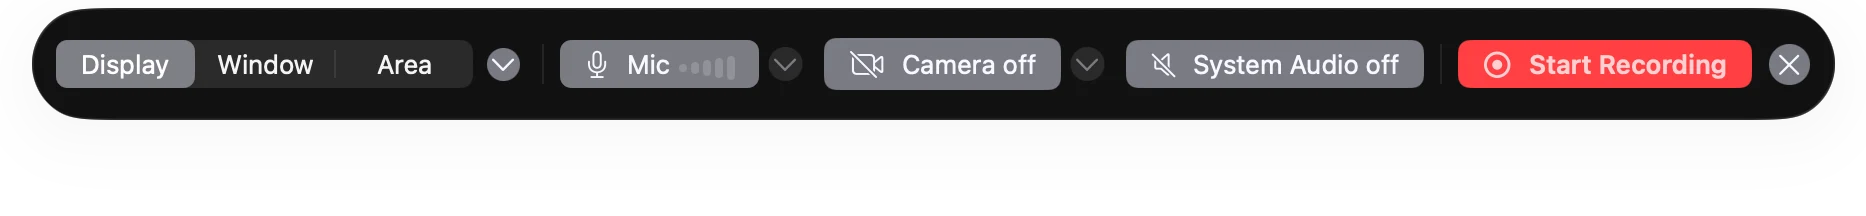
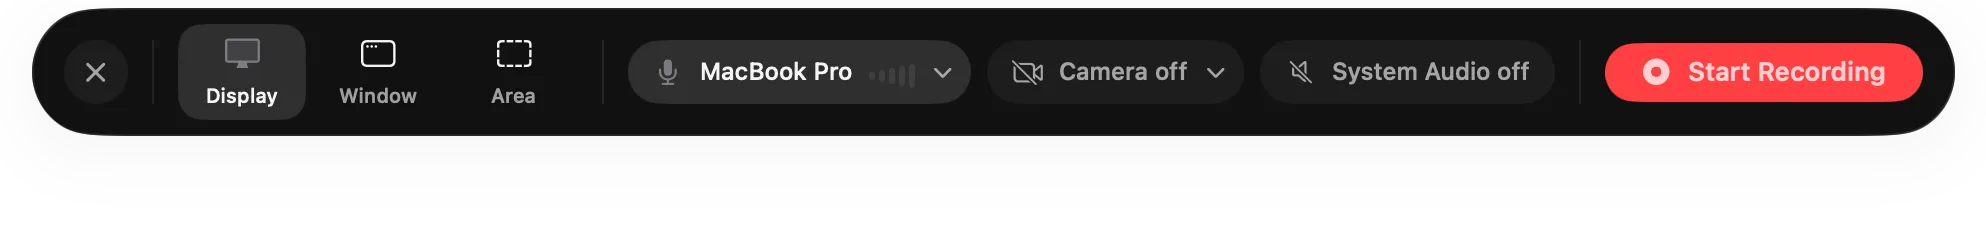
Show the new Record Panel on the landing page

Changed region(s): [[0.0311, 0.0833, 0.9946, 0.6111], [0.0311, 0.0278, 0.9636, 0.0556], [0.0, 0.4444, 0.0311, 0.5278]]

diff --git a/site/index.html b/site/index.html
@@ -138,7 +138,7 @@
             <li class="step" data-step="record">
               <h3>Record</h3>
               <p>Pick a display, a window, or an area. Turn the mic, camera, and system audio on or off, then start from the menu bar or a global shortcut. Your face sits in a round bubble you can drag anywhere while you record.</p>
-              <img class="step-shot" src="assets/shots/source-picker-dark.webp" loading="lazy" width="1908" height="494" alt="The record bar with Display, Window, and Area, mic, camera, and system audio toggles, and the display picker open.">
+              <img class="step-shot" src="assets/shots/source-picker-dark.webp" loading="lazy" width="1986" height="528" alt="The record bar with Display, Window, and Area tiles, mic, camera, and system audio chips, and the display picker open.">
             </li>
             <li class="step" data-step="zoom">
               <h3>Auto-zoom</h3>
@@ -175,8 +175,8 @@
           <div class="tour-visual" aria-hidden="true">
             <div class="map ticks">
               <div class="tv" data-for="record" data-kind="product">
-                <img src="assets/shots/source-picker-dark.webp" loading="lazy" alt="" width="1908" height="494">
-                <span class="callout" style="--x: 12%; --y: 72%"><span class="callout-label">Built-in Retina Display</span></span>
+                <img src="assets/shots/source-picker-dark.webp" loading="lazy" alt="" width="1986" height="528">
+                <span class="callout" style="--x: 19%; --y: 36%"><span class="callout-label">Display, Window, or Area</span></span>
               </div>
               <div class="tv" data-for="zoom" data-kind="product">
                 <img src="assets/shots/editor-zoomed-dark.webp" loading="lazy" alt="" width="1600" height="1048">
